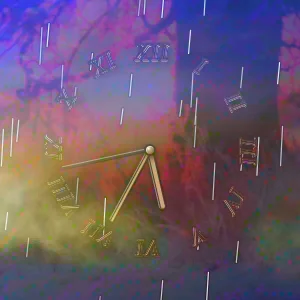
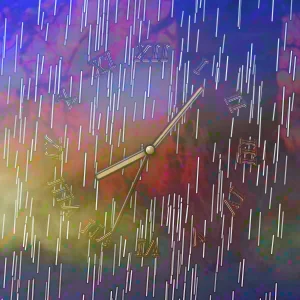
s

diff --git a/src/pages/2026/26-06/26-06-25/Clock.tsx b/src/pages/2026/26-06/26-06-25/Clock.tsx
@@ -13,9 +13,9 @@ export const assets = [jumpVideo];
 
 
 const HAND_DIMENSIONS = {
-  hour: { width: '1.9vmin', height: '9vmin', zIndex: 3 },
-  minute: { width: '1.2vmin', height: '18vmin', zIndex: 4 },
-  second: { width: '0.9vmin', height: '18vmin', zIndex: 5 },
+  hour: { width: '1.9vmin', height: '12vmin', zIndex: 3 },
+  minute: { width: '1.2vmin', height: '26vmin', zIndex: 4 },
+  second: { width: '0.3vmin', height: '28vmin', zIndex: 5 },
 } as const;
 
 const calculateTimeValues = (date: Date) => {
@@ -121,7 +121,7 @@ const styles = {
     bottom: 0,
     right: 0,
     left: 'auto',
-    // filter: 'saturate(250%) contrast(1.1) brightness(1.2)',
+    filter: 'saturate(150%) contrast(1.3) brightness(1.2)',
     width: '100%',
     height: '100%',
     objectFit: 'cover' as const,
@@ -142,10 +142,10 @@ const styles = {
     position: 'absolute' as const,
     bottom: '50%',
     left: '50%',
-      opacity: 0.6,
+      // opacity: 0.6,
     background: CLOCK_CONFIG.COLORS.primary,
     transformOrigin: '50% 100%',
-    filter: `${CLOCK_CONFIG.COLORS.shadow} sepia(0.4) saturate(1.8) contrast(1.2)`,
+    // filter: `${CLOCK_CONFIG.COLORS.shadow} sepia(0.4) saturate(1.8) contrast(1.2)`,
     borderRadius: '0px',
   },
 };